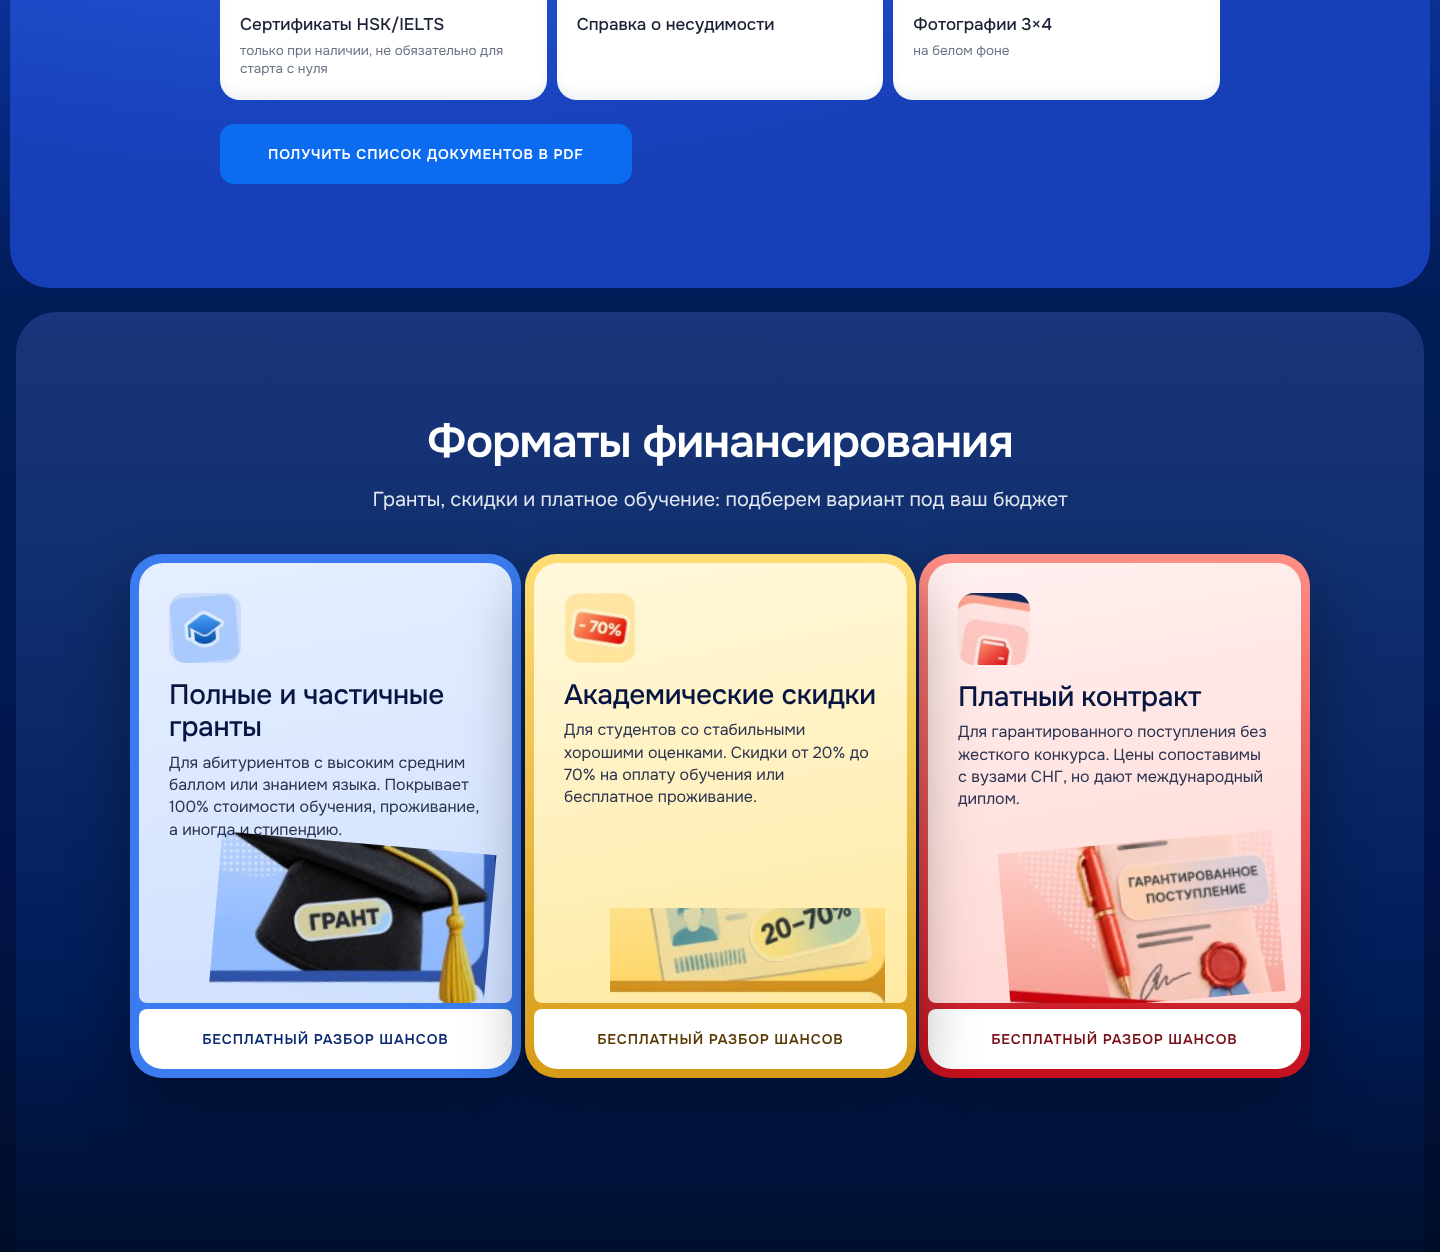
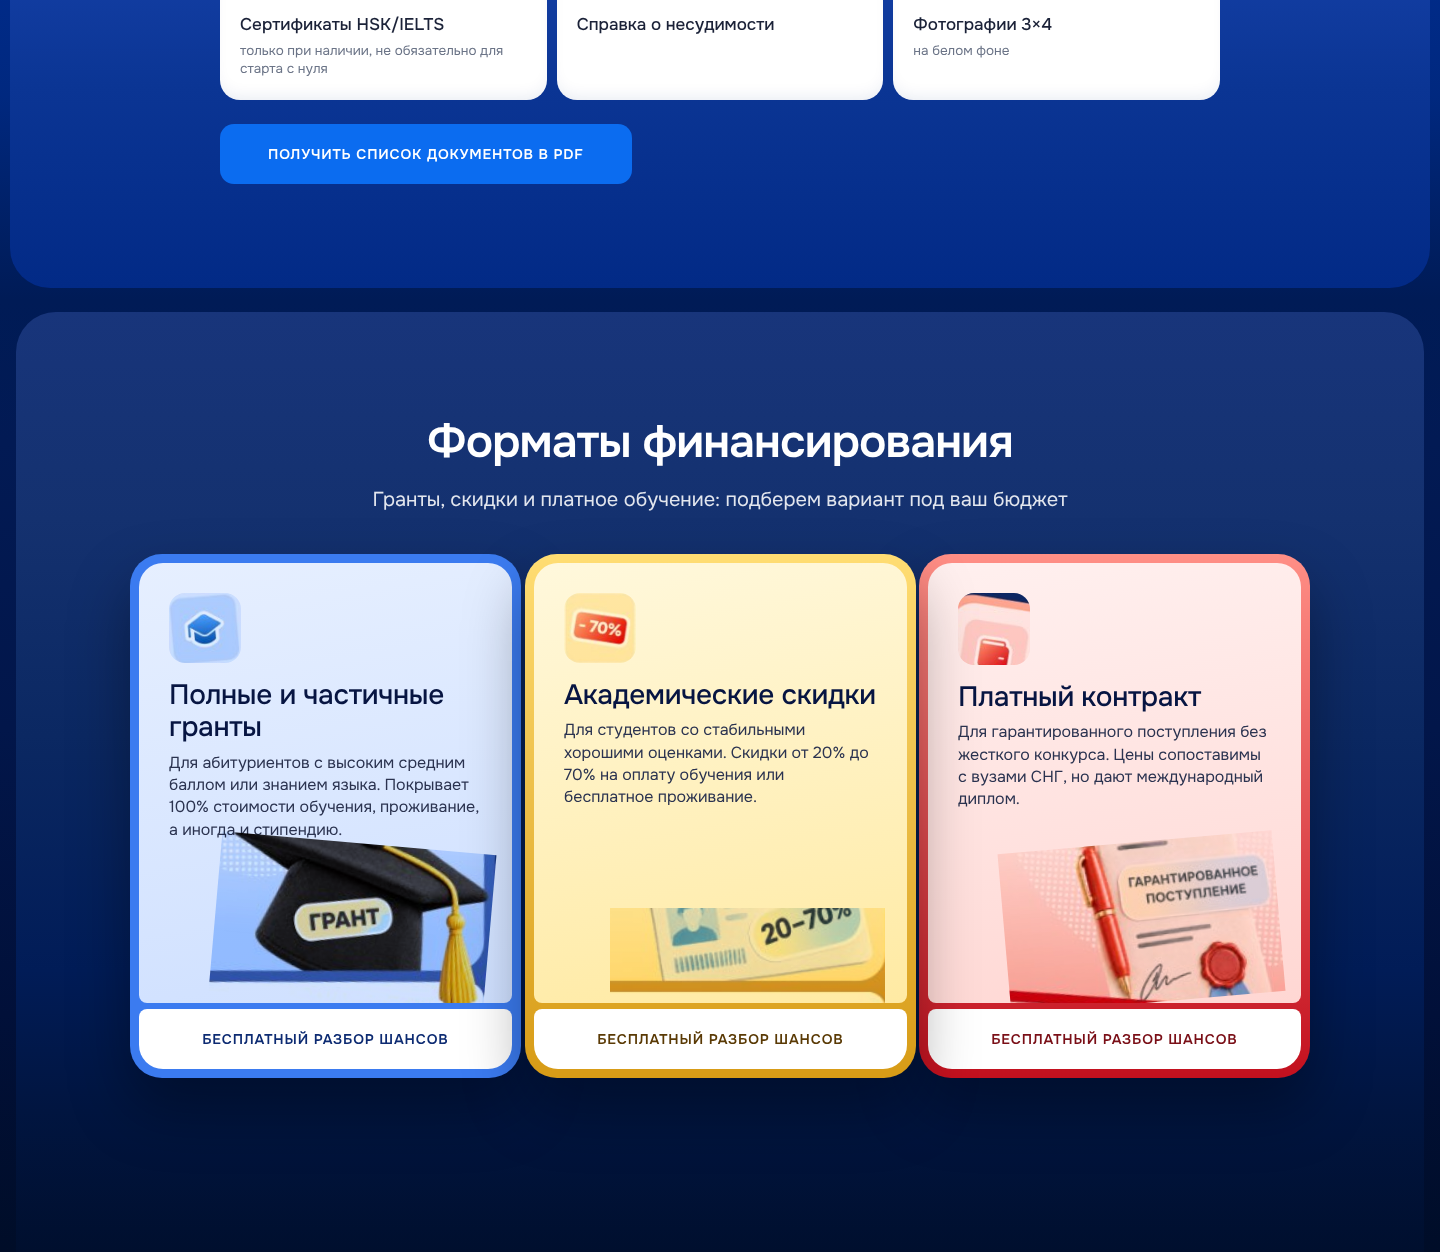
Pixel-matched gradients: pains -> docs -> finance
Claude-Session: https://claude.ai/code/session_01DveQThDXrjAqWsCdBVYsEN

Changed region(s): [[0.0, 0.0, 1.0, 0.2492]]

diff --git a/index.html b/index.html
@@ -1439,6 +1439,15 @@ h1,h2,.h2,.why .h2,.pains .h2,.checklist .h2{font-weight:600!important}
 #finance.sec{background:linear-gradient(180deg,#011c57 0%,#021a54 30%,#02144a 60%,#000d28 100%)}
 .frame.finance{background:linear-gradient(180deg,#19357b 0%,#11306f 25%,#0b2867 45%,#011c57 72%,#000f2e 100%)!important;border-radius:40px 40px 0 0}
 .finance-wrap .sub{color:rgba(255,255,255,.88)}
+
+/* ===== Документы → Финансирование: градиенты по пикселям макета ===== */
+#docs.sec{background:linear-gradient(180deg,#003fc3 0%,#003ab4 20%,#002f99 50%,#00287f 80%,#001b56 100%)!important}
+.frame.docs{background:radial-gradient(70% 45% at 22% 8%,rgba(90,140,250,.35),transparent 70%),linear-gradient(180deg,#3065e0 0%,#2a5cd4 25%,#1f4cbb 50%,#0b3594 80%,#022a86 100%)!important}
+#finance.sec{background:linear-gradient(180deg,#001b56 0%,#021a54 15%,#02164a 45%,#011039 75%,#000d28 100%)!important}
+.frame.finance{background:linear-gradient(180deg,#18357b 0%,#14316f 22%,#0b2862 45%,#011c57 70%,#011540 85%,#000f2e 100%)!important}
+
+@media (min-width:981px){#pains.sec{background:linear-gradient(180deg,#f7f9fd 0%,#f1f5fc 30%,#dbe7fc 46%,#8fb4f6 60%,#3a78ea 74%,#0a4fd2 88%,#003fc3 100%)!important}}
+@media (max-width:980px){#pains.sec{background:linear-gradient(180deg,#fff 0%,#fff 22%,#eaf1fd 35%,#8fb4f6 55%,#2a66e6 78%,#003fc3 100%)!important}}
 </style>
 </head>
 <body>
